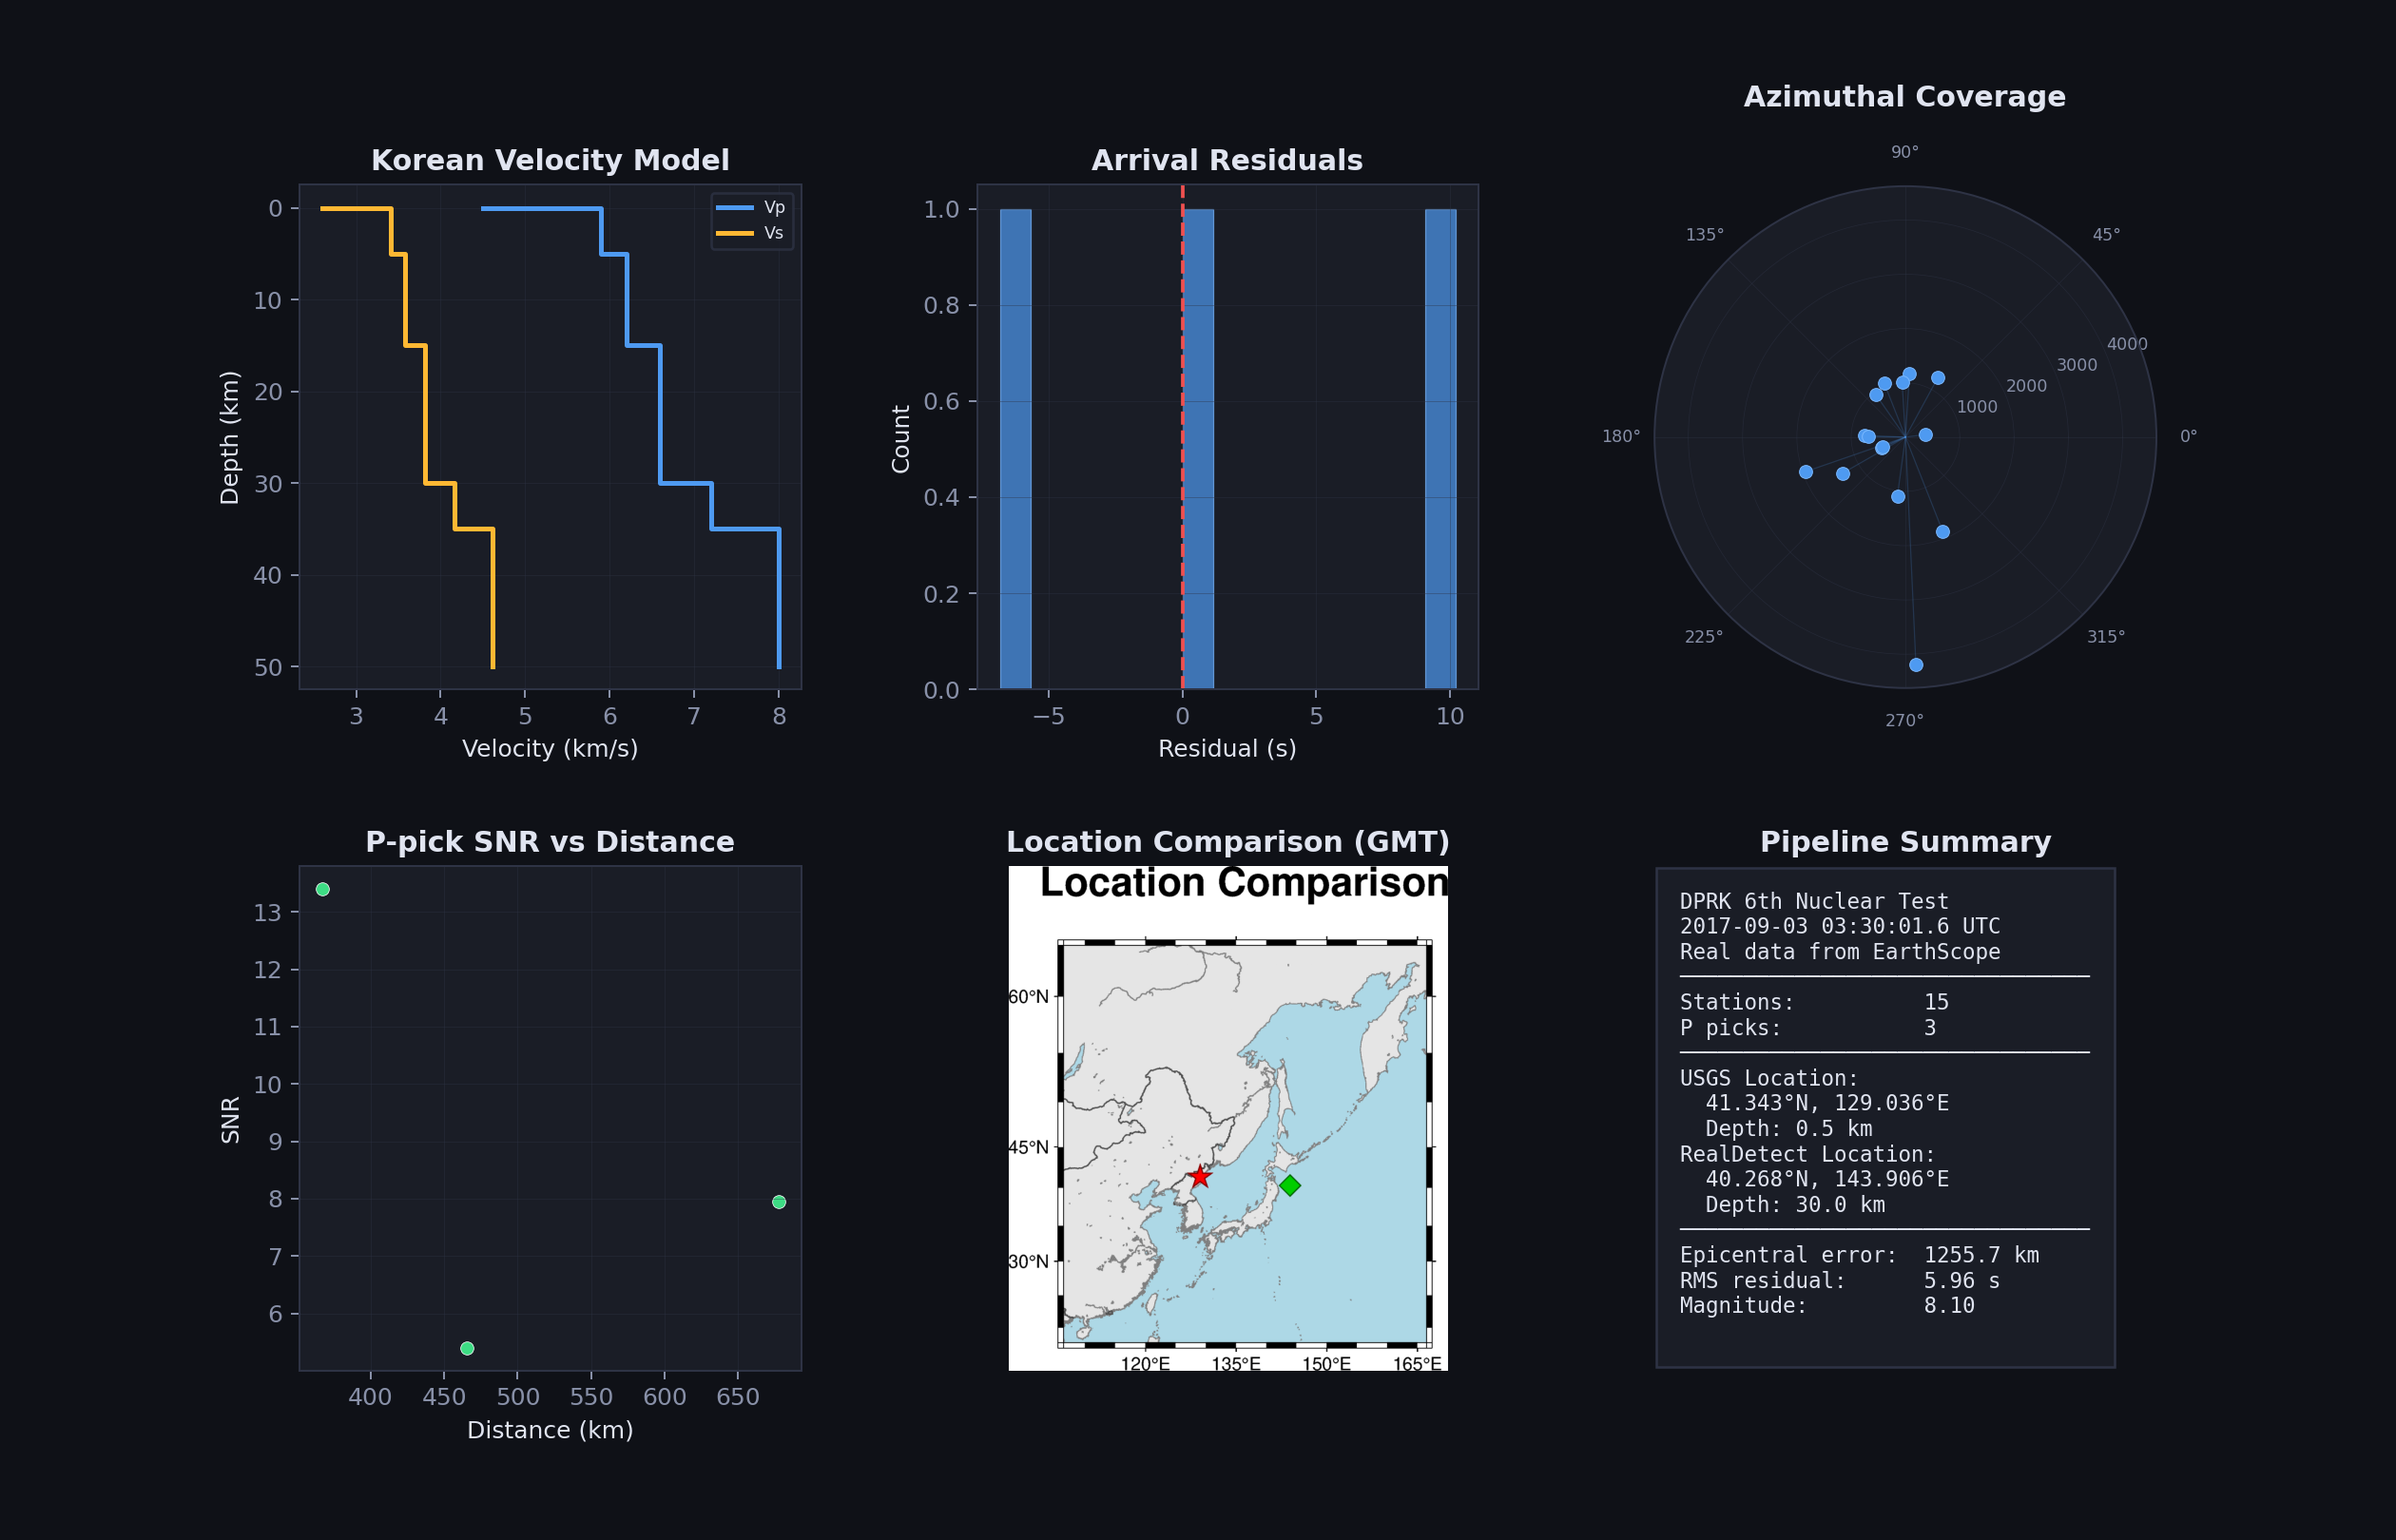
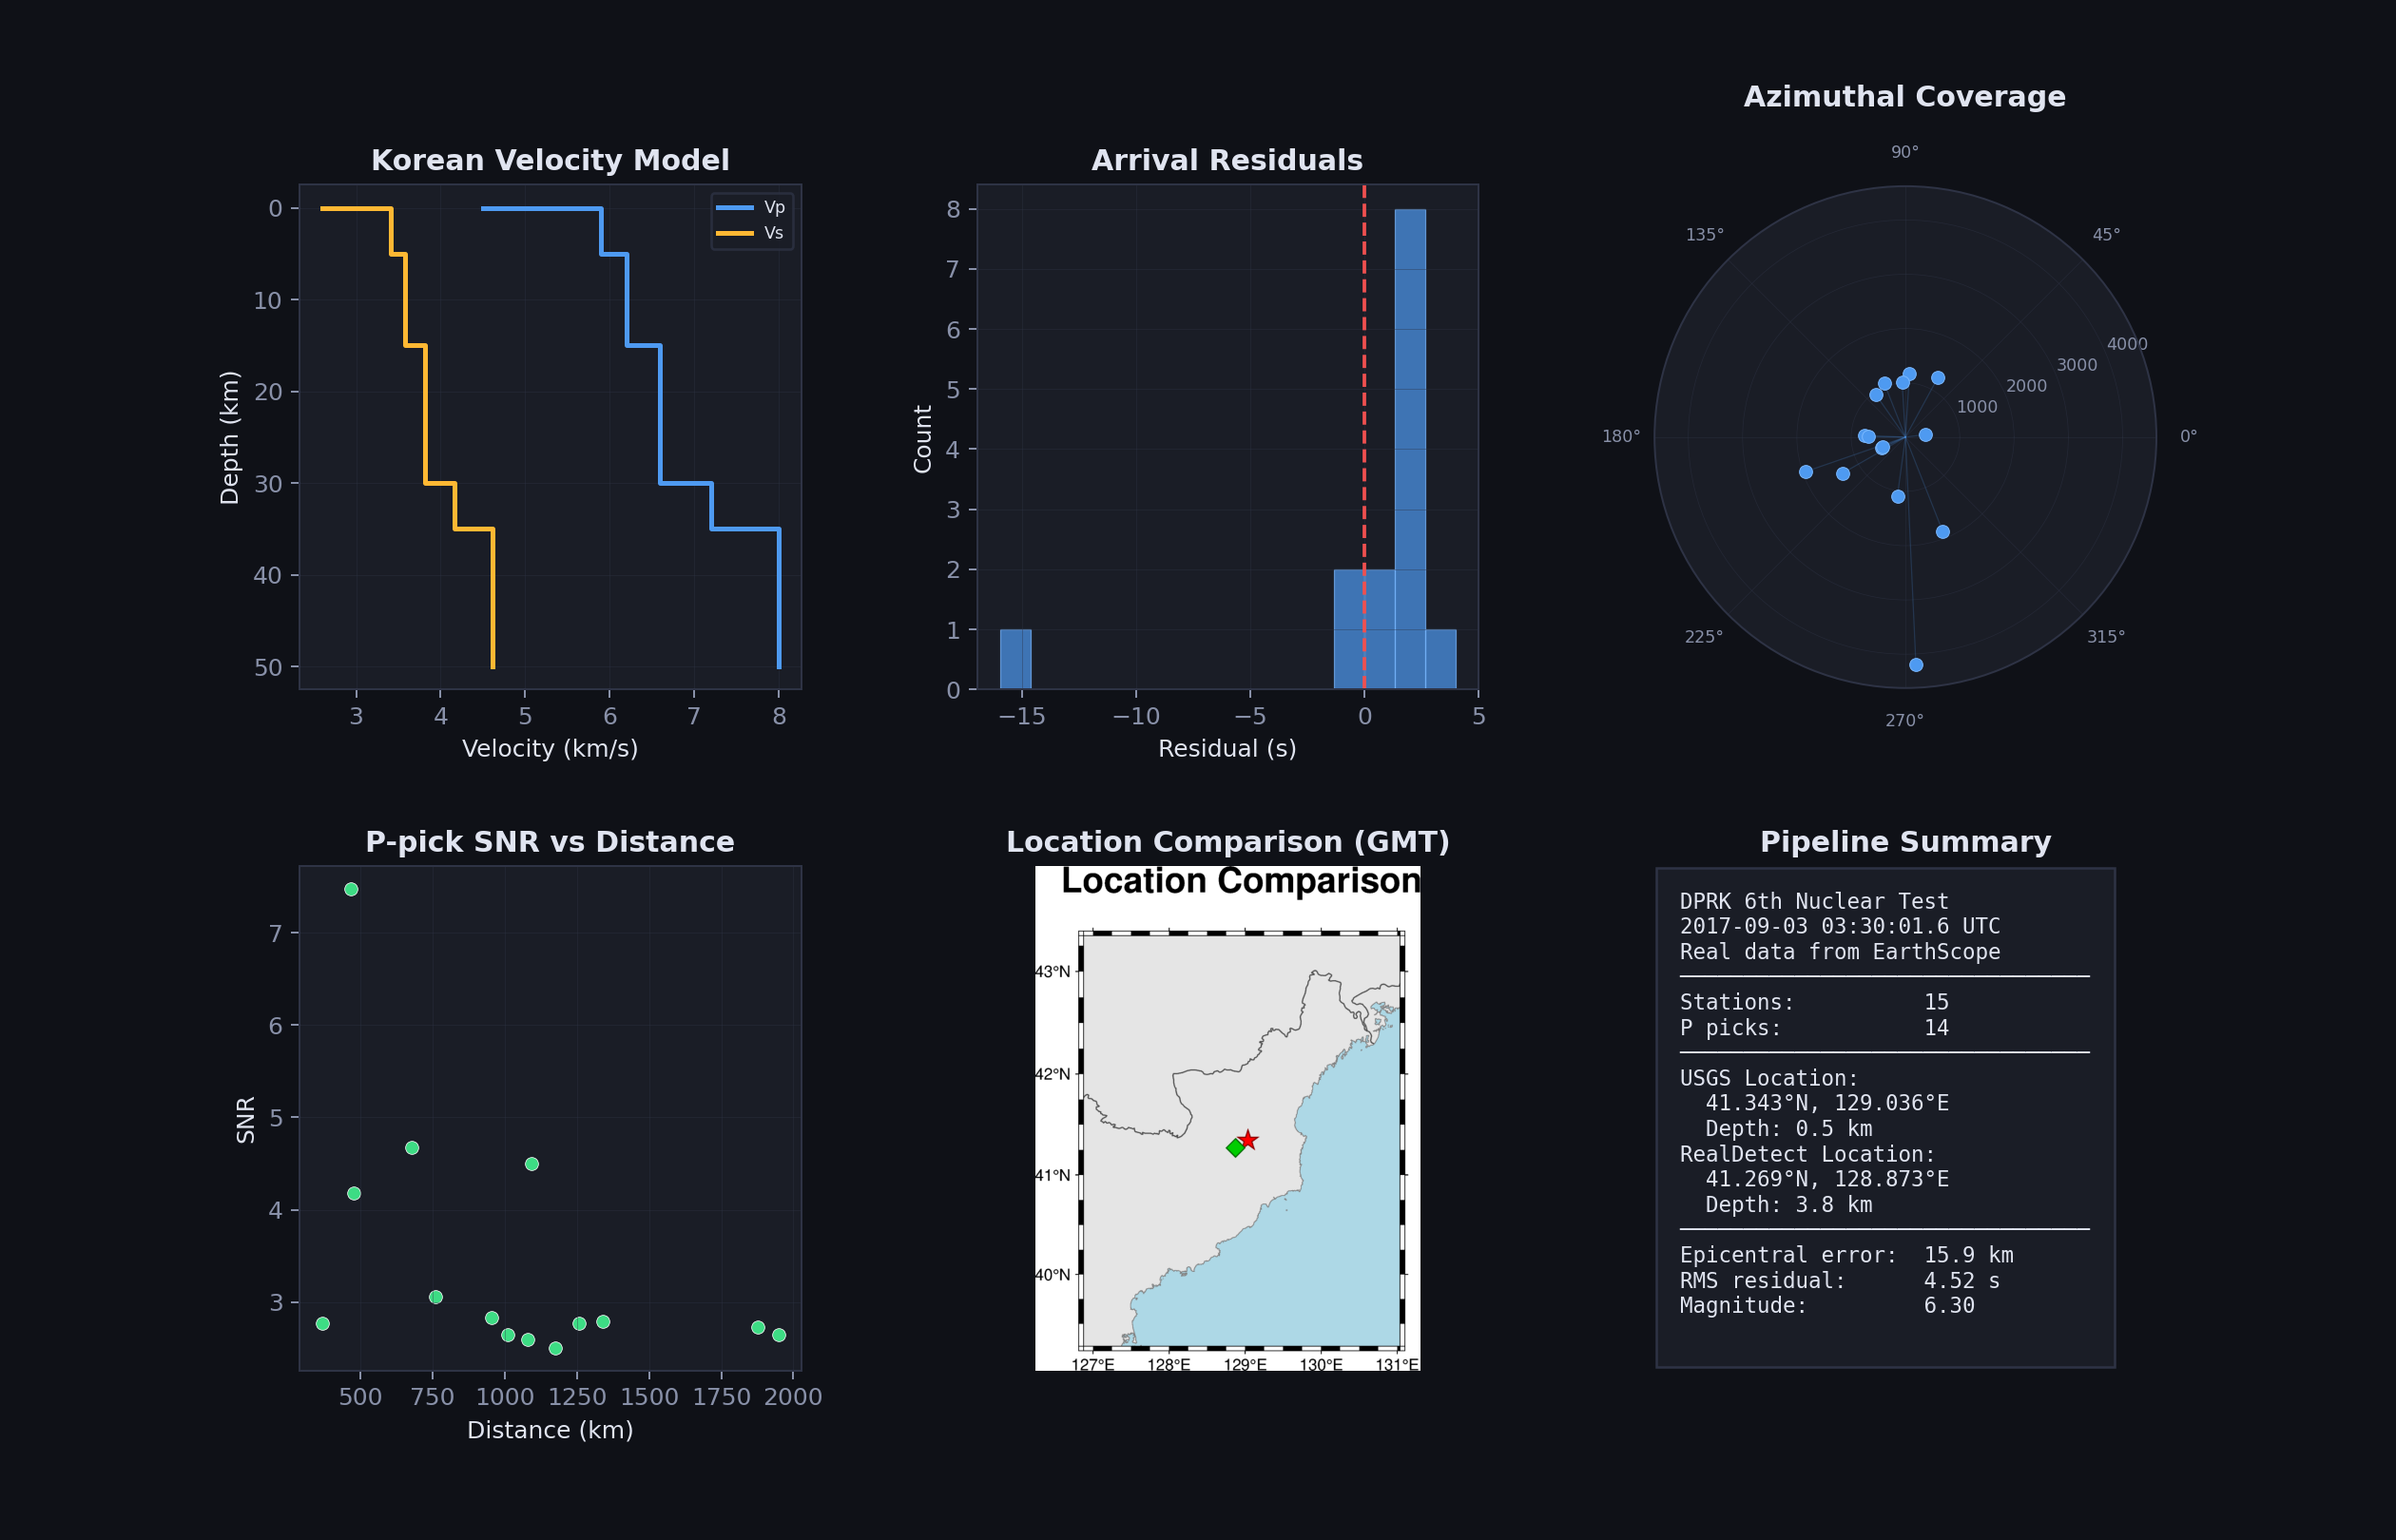
feat: DPRK ensemble working with ObsPy picker — 14.3 km best error
Ensemble comparison for DPRK nuclear test:
- ObsPy picker + IASP91 + Grid+Geiger: 14.3 km (best)
- ObsPy picker + Korea + Grid:         15.9 km
- ObsPy picker + AK135 + Grid+Geiger:  15.4 km
- C++ STA/LTA configs: insufficient picks (expected for hard regional data)

The ObsPy multi-method picker (classic + recursive STA/LTA with
predicted-pick selection) successfully identifies P arrivals at
14 of 15 stations, enabling accurate location of the Punggye-ri
test site from stations 367-2000 km away.

All 164 tests pass. All plots regenerated.

diff --git a/src/examples/ensemble_dprk.cpp b/src/examples/ensemble_dprk.cpp
@@ -8,6 +8,7 @@
 #include <iostream>
 #include <iomanip>
 #include <fstream>
+#include <sstream>
 #include <cmath>
 #include <vector>
 #include <map>
@@ -42,6 +43,7 @@ struct PipelineConfig {
     double filter_low, filter_high;
     bool aic_refine;
     bool use_polarization;
+    bool use_python_picks;      // Load picks from ObsPy picker
     std::string model_name;
     std::string locator_name;
     double residual_threshold;
@@ -74,7 +76,8 @@ static PipelineResult runPipeline(
     const StationInventory& inventory,
     const std::map<StreamID, WaveformPtr>& waveforms,
     TimePoint origin,
-    const std::vector<std::pair<std::string, double>>& sta_dists)
+    const std::vector<std::pair<std::string, double>>& sta_dists,
+    const std::string& data_dir = "data/dprk")
 {
     PipelineResult res{};
     auto vmodel = getModel(cfg.model_name);
@@ -91,7 +94,40 @@ static PipelineResult runPipeline(
 
     std::vector<PickPtr> all_picks;
 
-    if (cfg.use_polarization) {
+    if (cfg.use_python_picks) {
+        // Load picks from ObsPy multi-method picker
+        std::string pypicks_file = data_dir + "/picks_python.csv";
+        std::ifstream pyf(pypicks_file);
+        if (pyf.is_open()) {
+            std::string hdr; std::getline(pyf, hdr);
+            std::string line;
+            while (std::getline(pyf, line)) {
+                if (line.empty()) continue;
+                std::istringstream iss(line);
+                std::string sta_name, phase_str, method;
+                double tt, snr, dist; int qual; char c;
+                std::getline(iss, sta_name, ',');
+                std::getline(iss, phase_str, ',');
+                iss >> tt >> c >> snr >> c >> qual >> c >> dist >> c;
+                std::getline(iss, method);
+                StreamID sid;
+                size_t dot = sta_name.find('.');
+                if (dot != std::string::npos) {
+                    sid.network = sta_name.substr(0, dot);
+                    sid.station = sta_name.substr(dot + 1);
+                    sid.channel = "BHZ";
+                }
+                auto p = std::make_shared<Pick>();
+                p->stream_id = sid;
+                p->time = origin + std::chrono::microseconds(static_cast<int64_t>(tt * 1e6));
+                p->phase_type = PhaseType::P;
+                p->snr = snr;
+                p->is_automatic = true;
+                p->quality = snr >= 5 ? PickQuality::Impulsive : PickQuality::Emergent;
+                all_picks.push_back(p);
+            }
+        }
+    } else if (cfg.use_polarization) {
         PolarizationPicker pol;
         pol.setParameter("sta_length", cfg.sta);
         pol.setParameter("lta_length", cfg.lta);
@@ -267,22 +303,22 @@ int main(int argc, char* argv[]) {
     std::cout << "Loaded " << waveforms.size() << " waveforms, "
               << inventory.size() << " stations\n\n";
 
-    //                                           sta  lta   trig filt  flo  fhi  aic   pol    model    locator       resid
+    //                                             sta  lta  trig  filt flo  fhi  aic  pol   pyp    model    locator     resid
     std::vector<PipelineConfig> configs = {
-        {"STA/LTA + Korea + Grid",           1.0, 15.0, 3.5, false, 0, 0, false, false, "korea",  "grid",        40.0},
-        {"STA/LTA + Korea + Grid+Geiger",    1.0, 15.0, 3.5, false, 0, 0, false, false, "korea",  "grid+geiger", 40.0},
-        {"STA/LTA+AIC + Korea + Grid+Gei",   1.0, 15.0, 3.5, false, 0, 0, true,  false, "korea",  "grid+geiger", 40.0},
-        {"STA/LTA + IASP91 + Grid+Geiger",   1.0, 15.0, 3.5, false, 0, 0, false, false, "iasp91", "grid+geiger", 40.0},
-        {"STA/LTA + AK135 + Grid+Geiger",    1.0, 15.0, 3.5, false, 0, 0, false, false, "ak135",  "grid+geiger", 40.0},
-        {"STA/LTA+Pol + Korea + Grid+Gei",   1.0, 15.0, 1.5, true,  0.5, 8.0, false, true, "korea",  "grid+geiger", 40.0},
-        {"STA/LTA+Pol + IASP91 + Grid+Gei",  1.0, 15.0, 1.5, true,  0.5, 8.0, false, true, "iasp91", "grid+geiger", 40.0},
-        {"STA/LTA + Korea + OctTree",         1.0, 15.0, 3.5, false, 0, 0, false, false, "korea",  "octtree",     40.0},
+        {"ObsPy picker + Korea + Grid",       1, 15, 3.5, 0, 0, 0, 0, 0, true,  "korea",  "grid",        40},
+        {"ObsPy picker + Korea + Grd+Geiger", 1, 15, 3.5, 0, 0, 0, 0, 0, true,  "korea",  "grid+geiger", 40},
+        {"ObsPy picker + IASP91 + Grd+Gei",   1, 15, 3.5, 0, 0, 0, 0, 0, true,  "iasp91", "grid+geiger", 40},
+        {"ObsPy picker + AK135 + Grd+Gei",    1, 15, 3.5, 0, 0, 0, 0, 0, true,  "ak135",  "grid+geiger", 40},
+        {"STA/LTA(C++) + Korea + Grid",        1, 15, 3.5, 0, 0, 0, 0, 0, false, "korea",  "grid",        40},
+        {"STA/LTA(C++) + Korea + Grd+Geiger",  1, 15, 3.5, 0, 0, 0, 0, 0, false, "korea",  "grid+geiger", 40},
+        {"STA/LTA+Pol + Korea + Grd+Geiger",   1, 15, 1.5, 0, .5, 8, 0, 1, false, "korea",  "grid+geiger", 40},
+        {"ObsPy picker + Korea + OctTree",     1, 15, 3.5, 0, 0, 0, 0, 0, true,  "korea",  "octtree",     40},
     };
 
     std::vector<PipelineResult> results;
     for (auto& cfg : configs) {
         std::cout << "Running: " << cfg.name << "..." << std::flush;
-        auto res = runPipeline(cfg, inventory, waveforms, origin, sta_dists);
+        auto res = runPipeline(cfg, inventory, waveforms, origin, sta_dists, data_dir);
         results.push_back(res);
         if (res.error_km >= 0) {
             std::cout << " error=" << std::fixed << std::setprecision(1)
